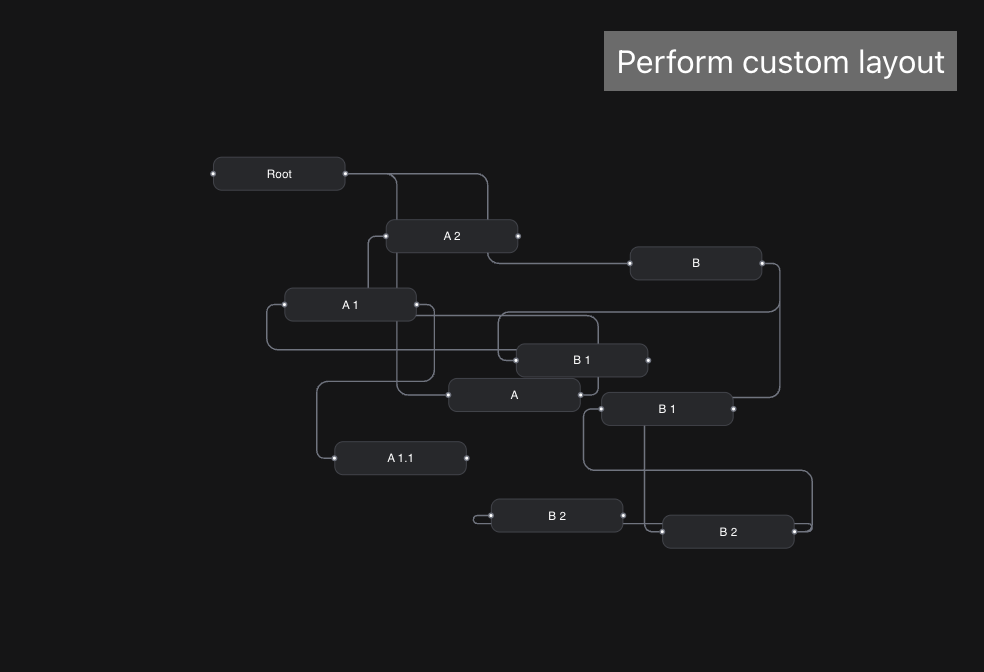
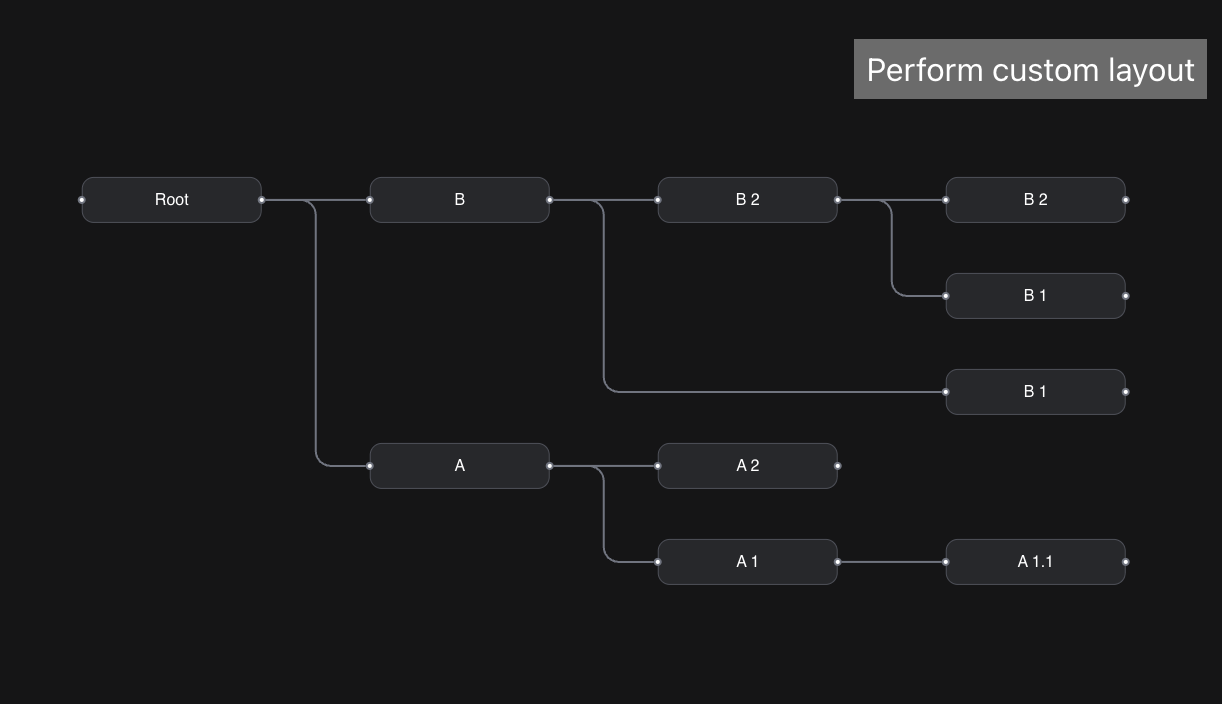
Fix images

diff --git a/apps/docs/src/components/angular/examples/readonly-middleware/diagram.component.ts b/apps/docs/src/components/angular/examples/readonly-middleware/diagram.component.ts
@@ -32,6 +32,9 @@ export class DiagramComponent {
       enabled: false,
       allowedActions: ['changeSelection'],
     },
+    edgeRouting: {
+      defaultRouting: 'orthogonal',
+    },
   };
 
   model = initializeModel({
